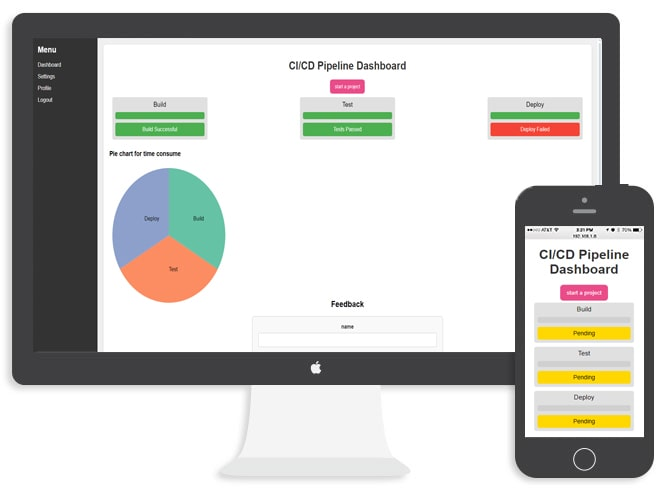
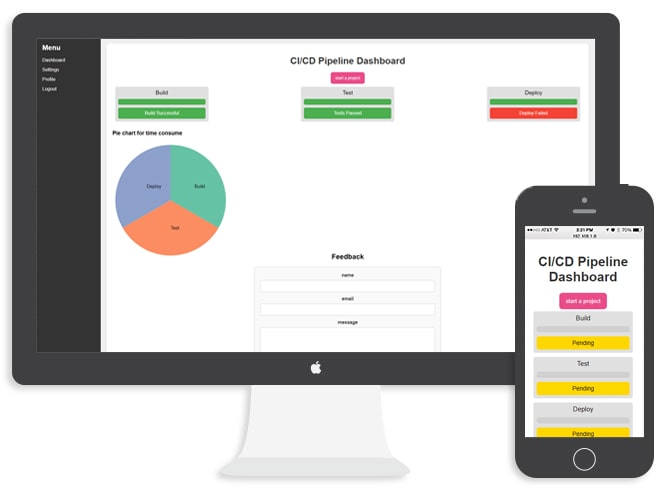
style :  navbar style

diff --git a/main.js b/main.js
@@ -216,3 +216,37 @@ $(document).ready(function () {
     });
   });
 });
+
+let lastScrollTop = 0;
+const mediaQuery = window.matchMedia("(max-width: 400px)");
+
+function handleScroll() {
+  const currentScroll = window.pageYOffset || document.documentElement.scrollTop;
+
+  if (currentScroll < lastScrollTop) {
+    // Scrolling up
+    document.querySelector(".nav-header").style.display = "block";
+  } else {
+    // Scrolling down
+    document.querySelector(".nav-header").style.display = "none";
+  }
+
+  lastScrollTop = currentScroll;
+}
+
+function checkMediaQuery() {
+  if (mediaQuery.matches) {
+    // If the media query matches (screen width is 400px or less)
+    window.addEventListener("scroll", handleScroll);
+  } else {
+    // Remove the event listener if the media query does not match
+    window.removeEventListener("scroll", handleScroll);
+    document.querySelector(".nav-header").style.display = "block"; // Ensure nav-header is visible when not on small screens
+  }
+}
+
+// Initial check
+checkMediaQuery();
+
+// Re-check on window resize
+mediaQuery.addListener(checkMediaQuery);

diff --git a/style.css b/style.css
@@ -60,7 +60,7 @@ p {
 
 .nav-screen {
   height: 100%;
-  z-index: 500;
+  z-index: 10000;
   position: fixed;
   background-color: #000;
   opacity: 1;
@@ -718,7 +718,18 @@ label {
     left: 10px !important;
     margin-top: 10px;
   }
-  .nav-header.navbar{
+  .nav-header.navbar {
     backdrop-filter: blur(10px) !important;
+  }
+}
+
+@media (max-width: 400px) {
+  .nav-header {
+    display: block;
+    position: fixed;
+    top: 0;
+    width: 100%;
+    z-index: 9999;
+    
   }
 }
